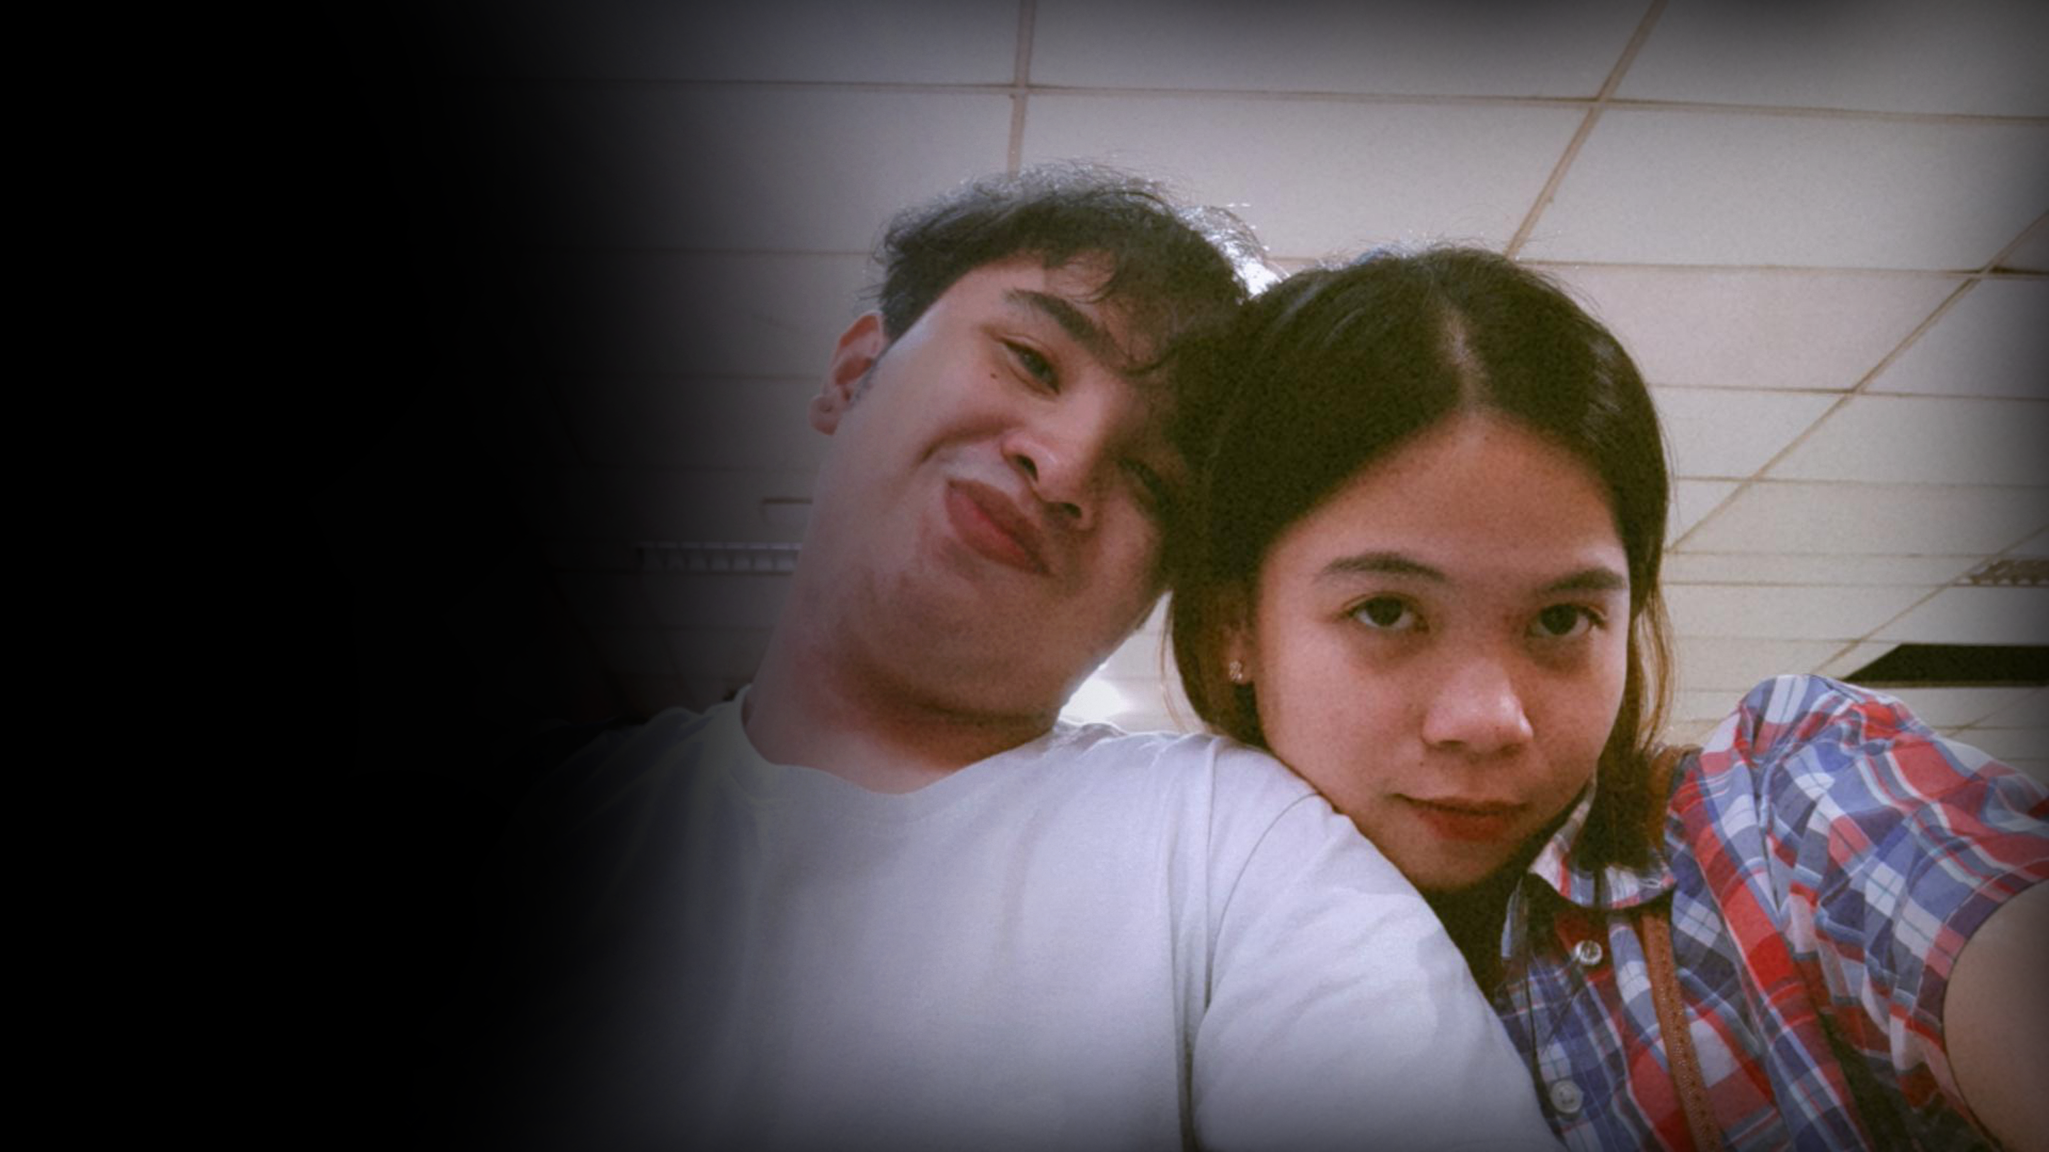
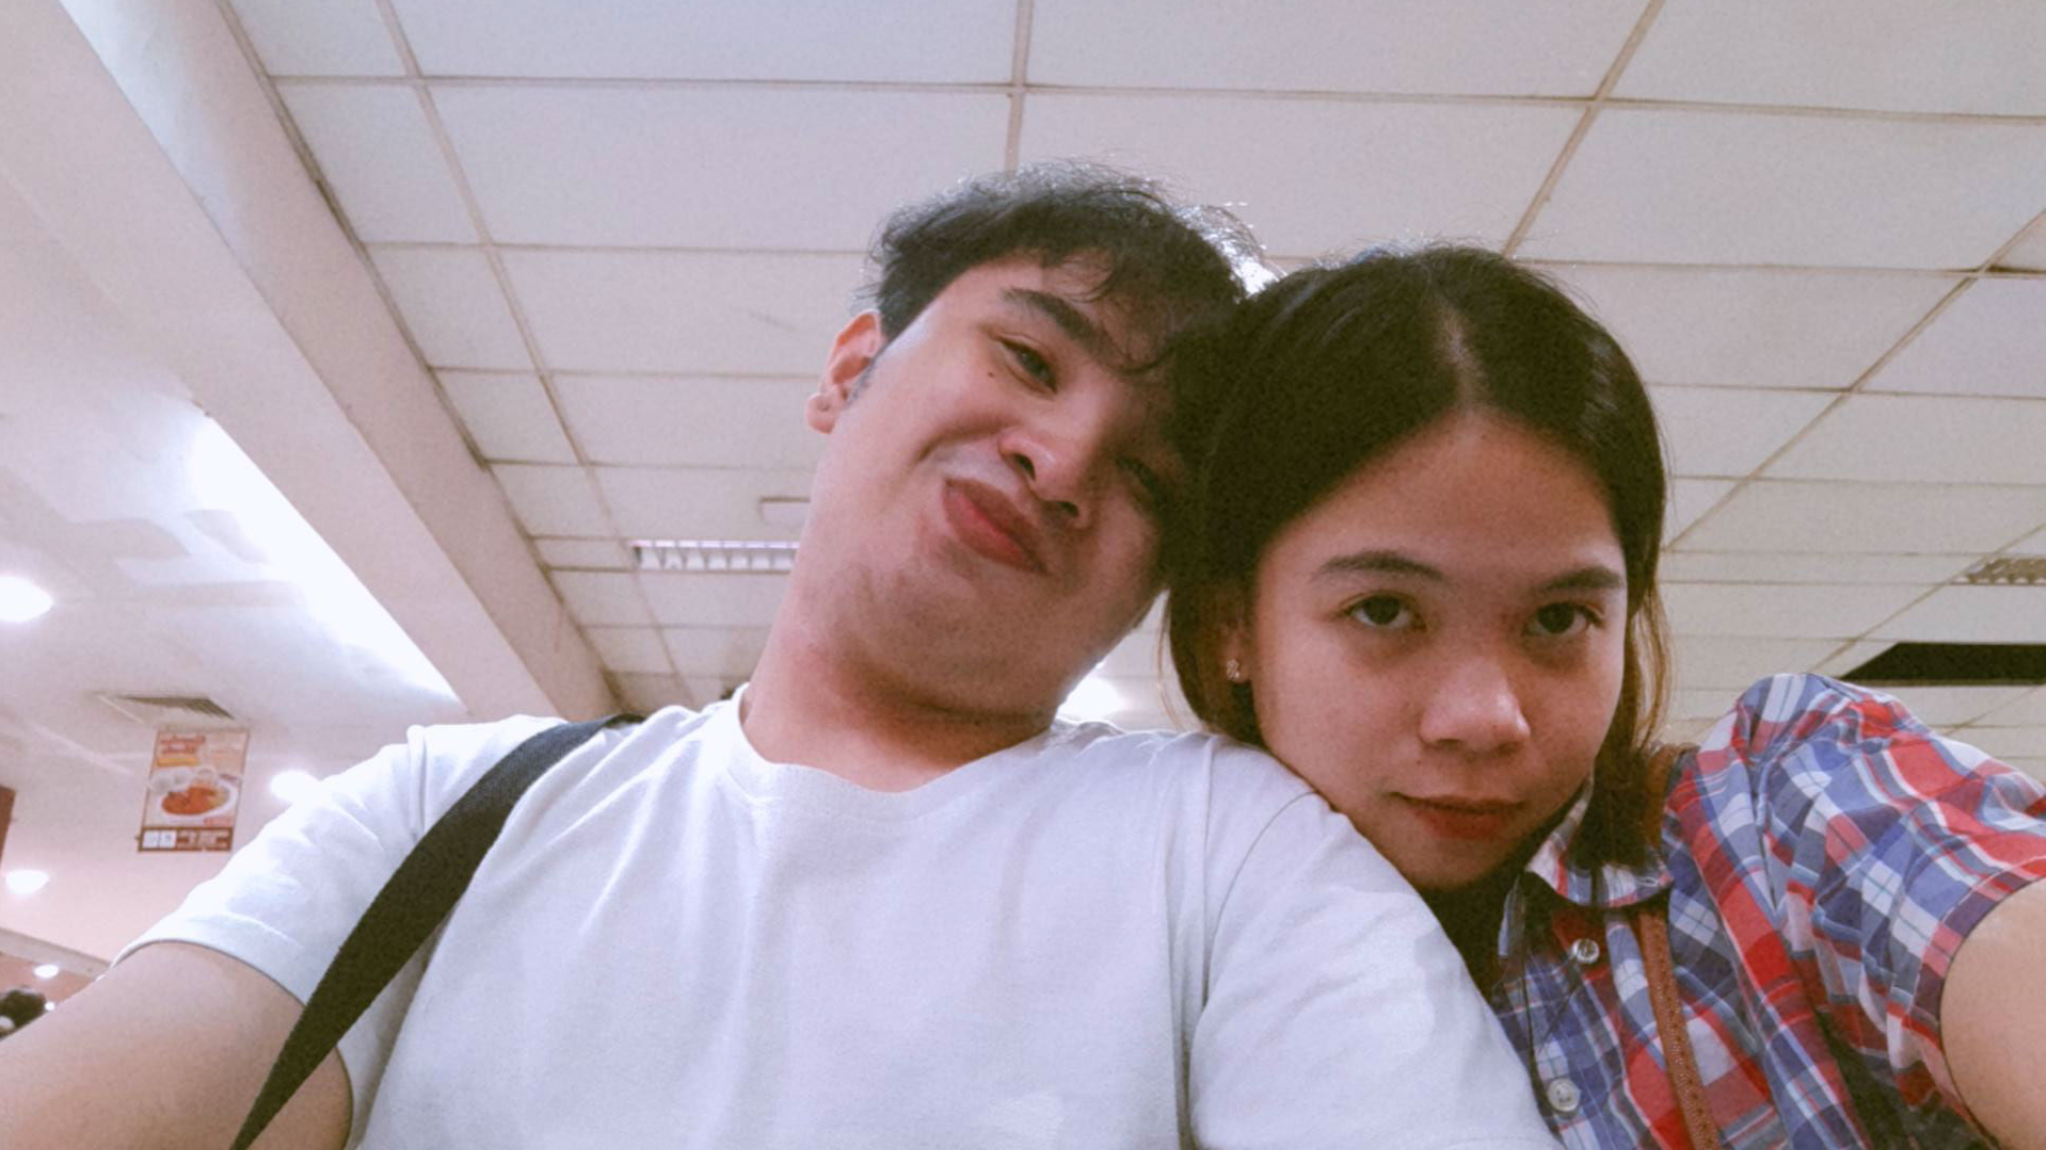
updates

diff --git a/style.css b/style.css
@@ -10,21 +10,87 @@ body
 {
     background: #000;
 }
-header
+.navbar
 {
-position: absolute;
-top: 0;
-Left: 0;
-width: 100%;
-display: flex;
-justify-content: space-between;
-align-items: center;
-padding: 10px 30px;
-z-index: 100;
+    display: flex;
+    justify-content: space-between;
+    align-items: center;
+    background-color: rgb(0, 0, 0);
+    color: white;
+    padding: 0px 40px;
 }
-header .logo img
+.navbar-links ul
 {
-    max-width: 150px;
+    margin: 0;
+    padding: 0%;
+    display: flex;
+}
+.navbar-links li
+{
+    list-style: none;
+    margin: 0 30px;
+}
+.navbar-links li a
+{
+    color: #fff;
+    text-decoration: none;
+    font-weight: 500;
+    letter-spacing: 1px;
+}
+.navbar-links li:hover a
+{
+    color: #de0611
+}
+.toggle-button {
+    position: absolute;
+    top: .75rem;
+    right: 1rem;
+    display: none;
+    flex-direction: column;
+    justify-content: space-between;
+    width: 30px;
+    height: 21px;
+}
+.toggle-button .bar {
+    height: 3px;
+    width: 100%;
+    background-color: white;
+    border-radius: 10px;
+}
+.search
+{
+    position: relative;
+    width: 300px;
+    height: 40px;
+}
+.search input
+{
+    position: absolute;
+    top: 0;
+    left: 0;
+    width: 100%;
+    height: 100%;
+    color: #fff;
+    background: transparent;
+    border: 1px solid rgba(255, 255, 2555, 0.1);
+    outline: none;
+    border-radius: 4px;
+    padding: 0 10px 0 45px;
+    backdrop-filter: blur(10px);
+}
+.search input::placeholder
+{
+    color: #fff;
+}
+.search .fa-search
+{
+    position: absolute;
+    top: 50%;
+    left: 10px;
+    transform: translateY(-50%);
+    padding-right: 10px;
+    color: #fff;
+    border-right: 1px solid #fff;
 }
 .banner
 {
@@ -44,10 +110,11 @@ header .logo img
     width: 100%;
     height: 100%;
     object-fit: cover;
+    padding: 0;
 }
 .content
 {
-    position: relative;
+    position: static;
     z-index: 1;
     max-width: 600px;
 }
@@ -116,6 +183,52 @@ header .logo img
 {
     background: #de0611
 }
+.banner .content ::after
+{
+    content: "";
+    position: absolute;
+    top: 0;
+    bottom: 0;
+    right: 980px;
+    left: 0;
+    z-index: -1;
+    background: linear-gradient(to right,#181818 10%,rgba(23,23,23,.98) 20%,rgba(23,23,23,.97) 25%,rgba(23,23,23,.95) 35%,rgba(23,23,23,.94) 40%,rgba(23,23,23,.92) 45%,rgba(23,23,23,.9) 50%,rgba(23,23,23,.87) 55%,rgba(23,23,23,.82) 60%,rgba(23,23,23,.75) 65%,rgba(23,23,23,.63) 70%,rgba(23,23,23,.45) 75%,rgba(23,23,23,.27) 80%,rgba(23,23,23,.15) 85%,rgba(23,23,23,.08) 90%,rgba(23,23,23,.03) 95%,rgba(23,23,23,0) 100%);
+}
+.container{
+    text-align: center;
+    max-width: 1000px;
+    margin: auto;
+}
+.row{
+    display: flex;
+    flex-wrap: wrap;
+}
+ul{
+    list-style: none;
+}
+.footer{
+    background-color: #24262b;
+    padding: 70px 0;
+}
+.footer-col{
+    width: 200%;
+    padding: 0 15px;
+}
+.footer-col h4{
+    font-size: 20px;
+    color: #ffffff;
+    text-transform: capitalize;
+    margin-bottom: 2px;
+}
+
+@media screen and (min-width: 100px) and (max-width: 966px){
+.footer-col{
+    position: relative;
+        z-index: 1;
+        max-width: 1000px;
+        top: 1350px;
+    }
+}
 
 @media (max-width: 991px)
 {
@@ -156,6 +269,36 @@ header .logo img
         color: #fff;
         margin: 14px 0 14px;
     }
+    .toggle-button {
+        display: flex;
+    }
+    .navbar-links {
+        display: none;
+        width: 100%;
+    }
+    .navbar {
+        display: inline;
+        justify-content: space-between;
+        align-items: center;
+        background-color: rgb(0, 0, 0);
+        color: white;
+        padding: 0px 130px;
+    }
+    .navbar-links ul{
+        width: 100%;
+        flex-direction: column;
+    }
+    .navbar-links li {
+        text-align: center;
+        flex-direction: column;
+    }
+    .navbar-links li a{
+        padding: .5rem 1rem;
+    }
+    .navbar-links.active{
+        display: flex;
+    }
+
 }
 
 @media screen and (min-width: 100px) and (max-width: 966px) {
@@ -208,6 +351,3 @@ header .logo img
         margin: 14px 0 14px;
     }
   }
-
-
-

diff --git a/index.html b/index.html
@@ -9,13 +9,26 @@
     <link rel = "icon" href = "./Icon.png" type = "image/x-icon">
     <link rel="stylesheet" href="https://use.fontawesome.com/releases/v5.15.4/css/all.css">
     <link rel="stylesheet" href="style.css">
+    <script src="script.js" defer></script>
 </head>
 <body>
-    <header>
-        <a href="#" class="JA"><img src="./JA.png"></a>
-        <ul class="navigation">
-        </ul>
-    </header>
+    <nav class="navbar">
+        <a href="#" class="JA"><img src="./JA.PNG"></a>
+        <a href="#" class="toggle-button">
+            <span class="bar"></span>
+            <span class="bar"></span>
+            <span class="bar"></span>
+        </a>
+        <div class="navbar-links">
+            <ul>
+            <li><a href="#">Home</a></li>
+            <li><a href="#">Movies</a></li>
+            <li><a href="#">Photos</a></li>
+            <li><a href="#">Videos</a></li>
+            </ul>
+        </div>
+        
+    </nav>
     <div class="banner">
         <img src="./jaa.png" class="jaa">
         <div class="content">
@@ -39,6 +52,21 @@
             </div>
         </div>
     </div>
+
+    <footer class="footer">
+        <div class="container">
+            <div class="row">
+                <div class="footer-col">
+                    <h4>Jace Anne</h4>
+                    <h4>All Rights Reserved.</h4>
+                </div>
+            </div>
+        </div>
+    </footer>
+
+    <section class="hero">
+        <h2>JA</h2>
+    </section>
 
     <script>
         function toggleVideo(){

diff --git a/script.js b/script.js
@@ -1,0 +1,6 @@
+const toggleButton = document.getElementsByClassName('toggle-button')[0]
+const navbarLinks = document.getElementsByClassName('navbar-links')[0]
+
+toggleButton.addEventListener('click', () => {
+    navbarLinks.classList.toggle('active')
+})
